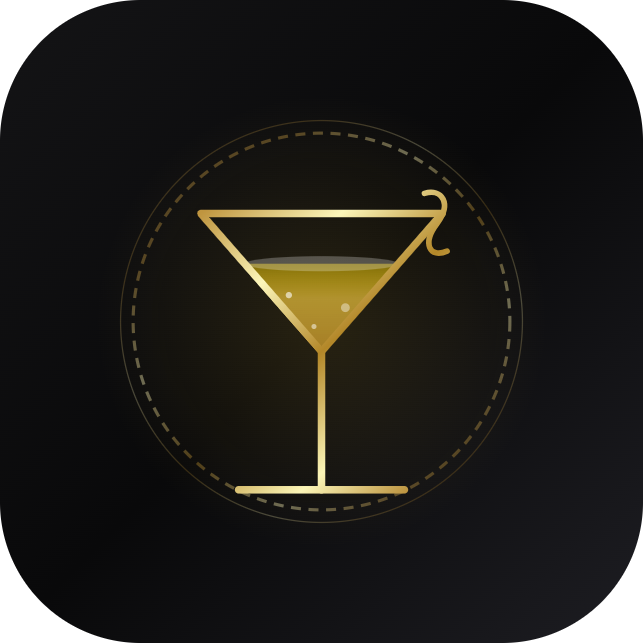
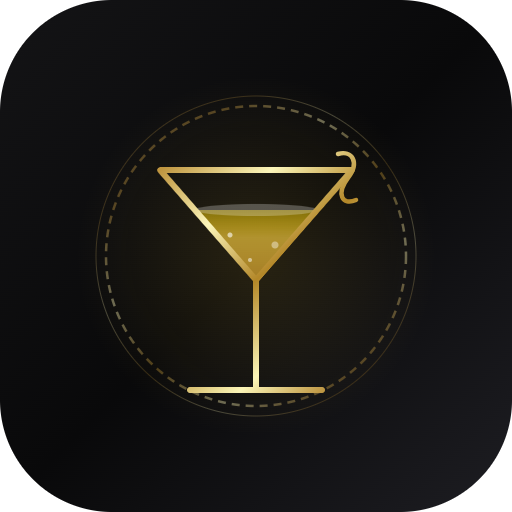
Add files via upload

Changed region(s): [[0.375, 0.5938, 0.5938, 0.7812], [0.3125, 0.3125, 0.6875, 0.3438]]

diff --git a/app.js b/app.js
@@ -17,6 +17,7 @@ const glasswareSpecs = {
   'Martiniglas': {
     cavity: 'M 50 50 L 150 50 L 100 115 Z',
     body: 'M 46 48 L 154 48 L 100 118 Z M 100 118 L 100 175 M 65 175 L 135 175',
+    highlight: 'M 52 52 L 98 105 L 94 105 L 48 52 Z',
     fill: 'none',
     stroke: 'rgba(255, 255, 255, 0.15)',
     strokeWidth: 2,
@@ -29,6 +30,7 @@ const glasswareSpecs = {
   'Rocks-Glas': {
     cavity: 'M 62 60 L 138 60 L 134 150 L 66 150 Z',
     body: 'M 58 55 L 142 55 L 138 160 L 62 160 Z M 62 150 L 138 150 L 138 160 L 62 160 Z',
+    highlight: 'M 65 65 L 72 65 L 75 145 L 68 145 Z',
     fill: 'none',
     stroke: 'rgba(255, 255, 255, 0.15)',
     strokeWidth: 2.5,
@@ -41,6 +43,7 @@ const glasswareSpecs = {
   'Coupeglas': {
     cavity: 'M 50 60 C 50 115, 150 115, 150 60 Z',
     body: 'M 46 58 C 46 120, 154 120, 154 58 M 100 118 L 100 175 M 65 175 L 135 175',
+    highlight: 'M 54 62 C 54 95, 78 112, 100 113 C 85 108, 65 92, 65 62 Z',
     fill: 'none',
     stroke: 'rgba(255, 255, 255, 0.15)',
     strokeWidth: 2,
@@ -53,6 +56,7 @@ const glasswareSpecs = {
   'Highball-Glas': {
     cavity: 'M 68 45 L 132 45 L 130 155 L 70 155 Z',
     body: 'M 64 40 L 136 40 L 134 165 L 66 165 Z M 66 155 L 134 155 L 134 165 L 66 165 Z',
+    highlight: 'M 71 50 L 78 50 L 80 150 L 73 150 Z',
     fill: 'none',
     stroke: 'rgba(255, 255, 255, 0.15)',
     strokeWidth: 2.5,
@@ -65,6 +69,7 @@ const glasswareSpecs = {
   'Collins-Glas': {
     cavity: 'M 72 35 L 128 35 L 126 155 L 74 155 Z',
     body: 'M 68 30 L 132 30 L 130 165 L 70 165 Z M 70 155 L 130 155 L 130 165 L 70 165 Z',
+    highlight: 'M 75 40 L 81 40 L 83 150 L 77 150 Z',
     fill: 'none',
     stroke: 'rgba(255, 255, 255, 0.15)',
     strokeWidth: 2.5,
@@ -77,6 +82,7 @@ const glasswareSpecs = {
   'Hurricaneglas': {
     cavity: 'M 72 45 C 55 90, 50 110, 75 125 C 85 130, 115 130, 125 125 C 150 110, 145 90, 128 45 Z',
     body: 'M 68 42 C 50 88, 46 112, 73 128 C 83 133, 117 133, 127 128 C 154 112, 150 88, 132 42 Z M 100 130 L 100 165 M 75 165 L 125 165',
+    highlight: 'M 76 50 C 65 88, 60 102, 80 118 C 73 110, 68 95, 76 50 Z',
     fill: 'none',
     stroke: 'rgba(255, 255, 255, 0.15)',
     strokeWidth: 2,
@@ -89,6 +95,7 @@ const glasswareSpecs = {
   'Kupferbecher': {
     cavity: 'M 60 65 C 60 65, 55 145, 65 145 L 135 145 C 145 145, 140 65, 140 65 Z',
     body: 'M 56 60 C 56 60, 51 150, 65 150 L 135 150 C 149 150, 144 60, 144 60 Z M 58 75 C 30 75, 30 135, 58 135 C 40 135, 40 75, 58 75 Z',
+    highlight: 'M 62 68 C 62 68, 57 142, 67 142 L 75 142 C 67 142, 68 68, 68 68 Z',
     fill: 'url(/#copper-metallic)',
     stroke: 'none',
     strokeWidth: 0,
@@ -101,6 +108,7 @@ const glasswareSpecs = {
   'Tiki-Becher': {
     cavity: 'M 70 45 L 130 45 L 126 155 L 74 155 Z',
     body: 'M 66 40 L 134 40 L 130 162 L 70 162 Z',
+    highlight: 'M 72 48 L 78 48 L 80 152 L 74 152 Z',
     fill: 'url(/#tiki-ceramic)',
     stroke: 'none',
     strokeWidth: 0,
@@ -114,6 +122,7 @@ const glasswareSpecs = {
   'Tiki-Glas': {
     cavity: 'M 70 45 L 130 45 L 126 155 L 74 155 Z',
     body: 'M 66 40 L 134 40 L 130 162 L 70 162 Z',
+    highlight: 'M 72 48 L 78 48 L 80 152 L 74 152 Z',
     fill: 'url(/#tiki-ceramic)',
     stroke: 'none',
     strokeWidth: 0,
@@ -127,6 +136,7 @@ const glasswareSpecs = {
   'Weinglas': {
     cavity: 'M 65 50 C 65 50, 60 125, 100 132 C 140 125, 135 50, 135 50 Z',
     body: 'M 61 48 C 61 48, 56 128, 100 135 C 144 128, 139 48, 139 48 M 100 135 L 100 175 M 70 175 L 130 175',
+    highlight: 'M 69 52 C 69 52, 64 112, 100 118 C 85 114, 75 90, 75 52 Z',
     fill: 'none',
     stroke: 'rgba(255, 255, 255, 0.15)',
     strokeWidth: 2,
@@ -139,6 +149,7 @@ const glasswareSpecs = {
   'Champagnerflötenglas': {
     cavity: 'M 80 40 L 120 40 C 120 40, 120 115, 100 125 C 80 115, 80 40, 80 40 Z',
     body: 'M 77 38 L 123 38 C 123 38, 123 118, 100 128 C 77 118, 77 38, 77 38 M 100 128 L 100 178 M 70 178 L 130 178',
+    highlight: 'M 83 42 C 83 42, 83 102, 100 110 C 90 102, 88 70, 88 42 Z',
     fill: 'none',
     stroke: 'rgba(255, 255, 255, 0.15)',
     strokeWidth: 2,
@@ -151,6 +162,7 @@ const glasswareSpecs = {
   'Champagnerglas': {
     cavity: 'M 50 60 C 50 115, 150 115, 150 60 Z',
     body: 'M 46 58 C 46 120, 154 120, 154 58 M 100 118 L 100 175 M 65 175 L 135 175',
+    highlight: 'M 54 62 C 54 95, 78 112, 100 113 C 85 108, 65 92, 65 62 Z',
     fill: 'none',
     stroke: 'rgba(255, 255, 255, 0.15)',
     strokeWidth: 2,
@@ -163,6 +175,7 @@ const glasswareSpecs = {
   'hitzefestes Glas': {
     cavity: 'M 70 50 L 130 50 L 125 145 L 75 145 Z',
     body: 'M 66 45 L 134 45 L 129 155 L 71 155 Z M 71 145 L 129 145 L 129 155 L 71 155 Z M 130 75 C 150 75, 150 125, 130 125',
+    highlight: 'M 73 53 L 80 53 L 82 142 L 75 142 Z',
     fill: 'none',
     stroke: 'rgba(255, 255, 255, 0.15)',
     strokeWidth: 2.2,
@@ -175,6 +188,7 @@ const glasswareSpecs = {
   'Tiki-Bowl': {
     cavity: 'M 45 75 C 45 135, 155 135, 155 75 Z',
     body: 'M 41 72 C 41 140, 159 140, 159 72 M 75 136 L 65 155 L 135 155 L 125 136',
+    highlight: 'M 49 78 C 49 110, 85 132, 100 133 C 80 128, 62 112, 62 78 Z',
     fill: 'none',
     stroke: 'rgba(255, 255, 255, 0.15)',
     strokeWidth: 2.5,
@@ -187,6 +201,7 @@ const glasswareSpecs = {
   'Shotglas': {
     cavity: 'M 78 70 L 122 70 L 118 150 L 82 150 Z',
     body: 'M 74 65 L 126 65 L 122 160 L 78 160 Z M 78 150 L 122 150 L 122 160 L 78 160 Z',
+    highlight: 'M 80 73 L 86 73 L 87 145 L 81 145 Z',
     fill: 'none',
     stroke: 'rgba(255, 255, 255, 0.15)',
     strokeWidth: 2.5,
@@ -199,6 +214,7 @@ const glasswareSpecs = {
   'kleines Glas': {
     cavity: 'M 75 70 L 125 70 L 120 150 L 80 150 Z',
     body: 'M 71 65 L 129 65 L 124 158 L 76 158 Z M 76 150 L 124 150 L 124 158 L 76 158 Z',
+    highlight: 'M 78 73 L 84 73 L 85 145 L 79 145 Z',
     fill: 'none',
     stroke: 'rgba(255, 255, 255, 0.15)',
     strokeWidth: 2.5,
@@ -1037,9 +1053,41 @@ function getMinimalSVG(cocktail) {
   const liquidIngredients = cocktail.ingredients.filter(i => i.role === 'ingredient' && i.amount.value_ml > 0);
   const mainColor = liquidIngredients.length > 0 ? getIngredientColor(liquidIngredients[0].name) : 'rgba(212, 175, 55, 0.4)';
   
-  // Generate a random ID suffix to ensure uniqueness in the DOM (collides with duplicate card instances)
+  // Generate a random ID suffix to ensure uniqueness in the DOM
   const rand = Math.random().toString(36).substr(2, 5);
   const uniqueId = `glass-mini-clip-${cocktail.id}-${rand}`;
+  
+  // Check if it has ice and straw
+  const hasIce = ['Rocks-Glas', 'Highball-Glas', 'Collins-Glas', 'Kupferbecher', 'Tiki-Becher', 'Tiki-Glas', 'hitzefestes Glas'].includes(glassName);
+  const hasStraw = ['Highball-Glas', 'Collins-Glas', 'Kupferbecher', 'Tiki-Becher', 'Tiki-Glas'].includes(glassName);
+  
+  let iceHtml = '';
+  if (hasIce) {
+    const cavityHeight = spec.yMax - spec.yMin;
+    const yMid = spec.yMin + cavityHeight * 0.5;
+    const yLow = spec.yMin + cavityHeight * 0.75;
+    iceHtml = `
+      <rect x="76" y="${yLow - 12}" width="24" height="24" rx="4" ry="4" fill="rgba(255, 255, 255, 0.12)" stroke="rgba(255, 255, 255, 0.3)" stroke-width="0.8" transform="rotate(15, 88, ${yLow})"/>
+      <rect x="94" y="${yMid - 10}" width="20" height="20" rx="4" ry="4" fill="rgba(255, 255, 255, 0.12)" stroke="rgba(255, 255, 255, 0.3)" stroke-width="0.8" transform="rotate(-25, 104, ${yMid})"/>
+    `;
+  }
+  
+  let strawHtml = '';
+  if (hasStraw) {
+    const strawTopX = spec.rimRight - 10;
+    const strawTopY = spec.rimY - 30;
+    const strawBotX = spec.rimLeft + 20;
+    const strawBotY = spec.yMax - 10;
+    strawHtml = `
+      <line x1="${strawBotX}" y1="${strawBotY}" x2="${strawTopX}" y2="${strawTopY}" stroke="var(--accent-color)" stroke-width="2.5" stroke-linecap="round"/>
+      <line x1="${strawBotX}" y1="${strawBotY}" x2="${strawTopX}" y2="${strawTopY}" stroke="#ffffff" stroke-width="2.5" stroke-dasharray="3 4" stroke-linecap="round" opacity="0.8"/>
+    `;
+  }
+  
+  let highlightHtml = '';
+  if (spec.highlight) {
+    highlightHtml = `<path d="${spec.highlight}" fill="rgba(255, 255, 255, 0.08)" pointer-events="none" />`;
+  }
   
   return `
     <svg viewBox="0 0 200 200" width="100%" height="100%">
@@ -1052,9 +1100,12 @@ function getMinimalSVG(cocktail) {
       <g clip-path="url(/#${uniqueId})">
         <rect x="0" y="0" width="200" height="200" fill="rgba(255,255,255,0.03)"/>
         <rect x="0" y="${spec.yMin + (spec.yMax - spec.yMin)*0.25}" width="200" height="200" fill="${mainColor}"/>
+        ${iceHtml}
       </g>
+      ${strawHtml}
       <!-- Glass outline -->
       <path d="${spec.cavity}" fill="none" stroke="rgba(255, 255, 255, 0.08)" stroke-width="2"/>
+      ${highlightHtml}
       <path d="${spec.body}" fill="${spec.fill}" stroke="${spec.stroke}" stroke-width="${spec.strokeWidth}"/>
     </svg>
   `;
@@ -1105,7 +1156,7 @@ function drawGlasswareSVG(cocktail) {
       currentY = layerY;
     });
 
-    // Check for fizzness (Prosecco, soda, tonic, champagne, sparkling, ginger beer)
+    // Check for fizzness
     const isFizzy = cocktail.ingredients.some(i => {
       const name = i.name.toLowerCase();
       return name.includes("soda") || name.includes("tonic") || name.includes("prosecco") || 
@@ -1114,15 +1165,16 @@ function drawGlasswareSVG(cocktail) {
     });
 
     if (isFizzy) {
-      // Add animated sparkles
+      const bY = spec.yMax;
       sparklesHtml = `
-        <circle class="sparkle" cx="80" cy="110" r="1.5" />
-        <circle class="sparkle" cx="120" cy="120" r="2.2" />
-        <circle class="sparkle" cx="100" cy="130" r="1.8" />
-        <circle class="sparkle" cx="90" cy="90" r="2" />
-        <circle class="sparkle" cx="115" cy="100" r="1.2" />
-        <circle class="sparkle" cx="70" cy="125" r="1.5" />
-        <circle class="sparkle" cx="130" cy="135" r="1.8" />
+        <!-- Fizzy Bubbles starting near bottom -->
+        <circle class="sparkle" cx="82" cy="${bY - 15}" r="1.5" />
+        <circle class="sparkle" cx="118" cy="${bY - 25}" r="2.2" />
+        <circle class="sparkle" cx="100" cy="${bY - 20}" r="1.8" />
+        <circle class="sparkle" cx="90" cy="${bY - 35}" r="2" />
+        <circle class="sparkle" cx="110" cy="${bY - 10}" r="1.2" />
+        <circle class="sparkle" cx="76" cy="${bY - 30}" r="1.6" />
+        <circle class="sparkle" cx="124" cy="${bY - 18}" r="1.8" />
       `;
     }
   }
@@ -1195,9 +1247,51 @@ function drawGlasswareSVG(cocktail) {
     }
   });
 
-  // 4. Assemble the whole SVG code
-  const isTiki = spec.isTiki;
+  // 4. Determine ice, straw, and custom highlight overlays
+  let iceCubesHtml = '';
+  const hasIce = ['Rocks-Glas', 'Highball-Glas', 'Collins-Glas', 'Kupferbecher', 'Tiki-Becher', 'Tiki-Glas', 'hitzefestes Glas'].includes(glassName);
   
+  if (hasIce && totalVolume > 0) {
+    const cavityHeight = spec.yMax - spec.yMin;
+    const yMid = spec.yMin + cavityHeight * 0.5;
+    const yLow = spec.yMin + cavityHeight * 0.75;
+    const yHigh = spec.yMin + cavityHeight * 0.28;
+    
+    iceCubesHtml = `
+      <!-- Luxury Floating Ice Cubes -->
+      <g opacity="0.85">
+        <rect x="74" y="${yLow - 15}" width="32" height="32" rx="6" ry="6" fill="rgba(255, 255, 255, 0.12)" stroke="rgba(255, 255, 255, 0.35)" stroke-width="1.2" transform="rotate(15, 90, ${yLow})"/>
+        <rect x="94" y="${yMid - 14}" width="28" height="28" rx="5" ry="5" fill="rgba(255, 255, 255, 0.12)" stroke="rgba(255, 255, 255, 0.35)" stroke-width="1.2" transform="rotate(-25, 108, ${yMid})"/>
+        <rect x="68" y="${yHigh - 10}" width="26" height="26" rx="5" ry="5" fill="rgba(255, 255, 255, 0.15)" stroke="rgba(255, 255, 255, 0.4)" stroke-width="1.2" transform="rotate(40, 81, ${yHigh})"/>
+      </g>
+    `;
+  }
+
+  let strawHtml = '';
+  const hasStraw = ['Highball-Glas', 'Collins-Glas', 'Kupferbecher', 'Tiki-Becher', 'Tiki-Glas'].includes(glassName);
+  
+  if (hasStraw) {
+    const strawTopX = spec.rimRight - 10;
+    const strawTopY = spec.rimY - 45;
+    const strawBotX = spec.rimLeft + 20;
+    const strawBotY = spec.yMax - 10;
+    
+    strawHtml = `
+      <!-- Premium Paper Straw -->
+      <g>
+        <line x1="${strawBotX}" y1="${strawBotY}" x2="${strawTopX}" y2="${strawTopY}" stroke="var(--accent-color)" stroke-width="4.5" stroke-linecap="round"/>
+        <line x1="${strawBotX}" y1="${strawBotY}" x2="${strawTopX}" y2="${strawTopY}" stroke="#ffffff" stroke-width="4.5" stroke-dasharray="4 6" stroke-linecap="round" opacity="0.8"/>
+      </g>
+    `;
+  }
+
+  let highlightHtml = '';
+  if (spec.highlight) {
+    highlightHtml = `<path d="${spec.highlight}" fill="rgba(255, 255, 255, 0.12)" pointer-events="none" />`;
+  }
+
+  // 5. Assemble the whole SVG code
+  const isTiki = spec.isTiki;
   const detailClipId = `detail-glass-clip-${cocktail.id}`;
 
   let svgCode = `
@@ -1217,12 +1311,21 @@ function drawGlasswareSVG(cocktail) {
         <!-- Stacked ingredients liquid layers -->
         ${layersHtml}
         
+        <!-- Ice cubes inside liquid -->
+        ${iceCubesHtml}
+        
         <!-- Sparkles/fizzy bubbles -->
         ${sparklesHtml}
       </g>
       
+      <!-- Premium Straw -->
+      ${strawHtml}
+      
       <!-- Shiny highlights inside glass bowl using absolute global gradient -->
       <path d="${spec.cavity}" fill="url(/#shine-overlay)" opacity="0.8"/>
+      
+      <!-- Custom glossy highlight paths -->
+      ${highlightHtml}
 
       <!-- Inner glass cavity stroke outline -->
       <path d="${spec.cavity}" fill="none" stroke="rgba(255, 255, 255, 0.12)" stroke-width="2" />

diff --git a/styles.css b/styles.css
@@ -1718,20 +1718,38 @@ a {
   filter: brightness(1.15);
 }
 
-/* Custom interactive bubble/shimmer details */
+/* Animated rising fizzy bubbles */
 .sparkle {
-  fill: #fff;
-  opacity: 0.3;
-  animation: shimmer 3s infinite ease-in-out;
+  fill: #ffffff;
+  opacity: 0;
+  animation: floatBubble 4s infinite linear;
+  transform-origin: center;
 }
 
-.sparkle:nth-child(2n) {
-  animation-delay: 1.5s;
-}
+/* Randomized delays and durations for natural bubble stream look */
+.sparkle:nth-child(1) { animation-delay: 0.2s; animation-duration: 3.2s; }
+.sparkle:nth-child(2) { animation-delay: 1.2s; animation-duration: 4.0s; }
+.sparkle:nth-child(3) { animation-delay: 0.6s; animation-duration: 3.5s; }
+.sparkle:nth-child(4) { animation-delay: 2.0s; animation-duration: 4.5s; }
+.sparkle:nth-child(5) { animation-delay: 1.5s; animation-duration: 3.0s; }
+.sparkle:nth-child(6) { animation-delay: 0.4s; animation-duration: 3.8s; }
+.sparkle:nth-child(7) { animation-delay: 2.5s; animation-duration: 4.2s; }
 
-@keyframes shimmer {
-  0%, 100% { opacity: 0.1; transform: scale(0.8); }
-  50% { opacity: 0.5; transform: scale(1.2); }
+@keyframes floatBubble {
+  0% {
+    transform: translateY(10px) scale(0.6);
+    opacity: 0;
+  }
+  15% {
+    opacity: 0.6;
+  }
+  85% {
+    opacity: 0.6;
+  }
+  100% {
+    transform: translateY(-55px) scale(1.1);
+    opacity: 0;
+  }
 }
 
 /* ----------------------------------------------------

diff --git a/sw.js b/sw.js
@@ -1,4 +1,4 @@
-const CACHE_NAME = 'mixology-v2';
+const CACHE_NAME = 'mixology-v3';
 const ASSETS = [
   'index.html',
   'styles.css',